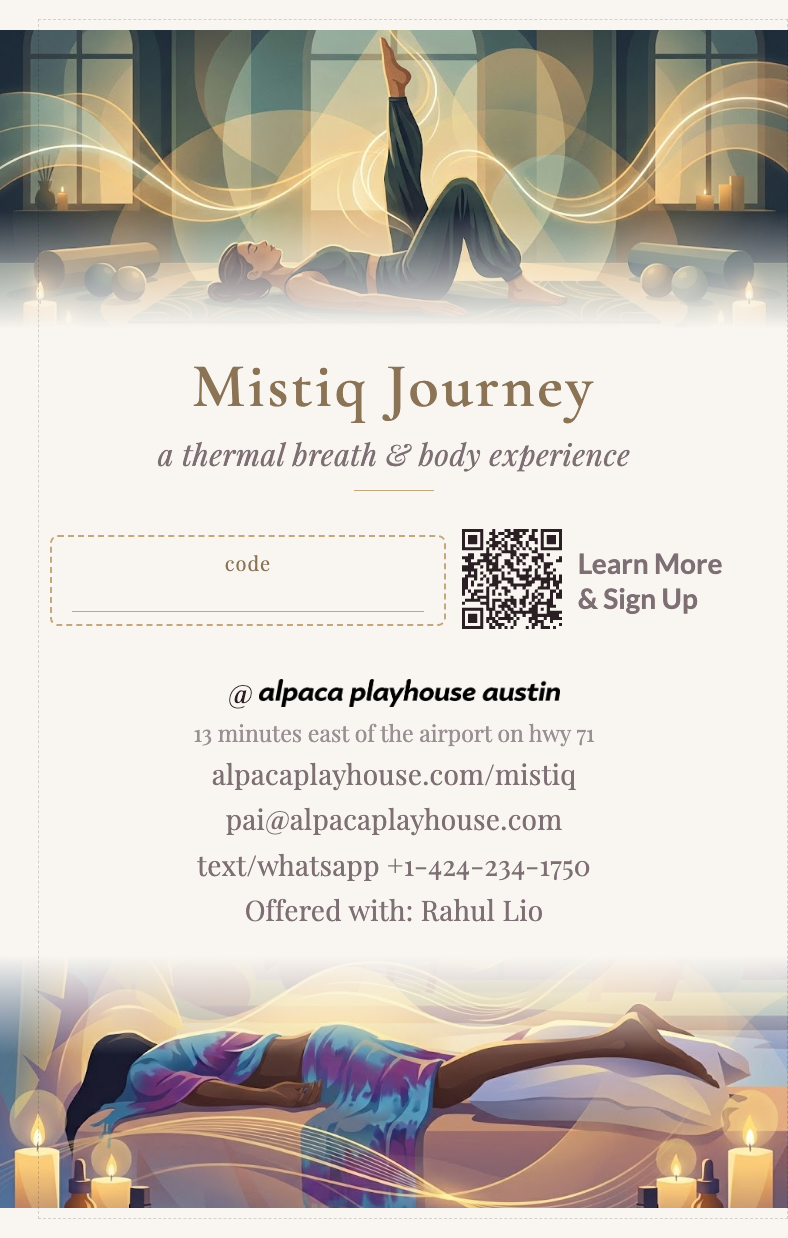
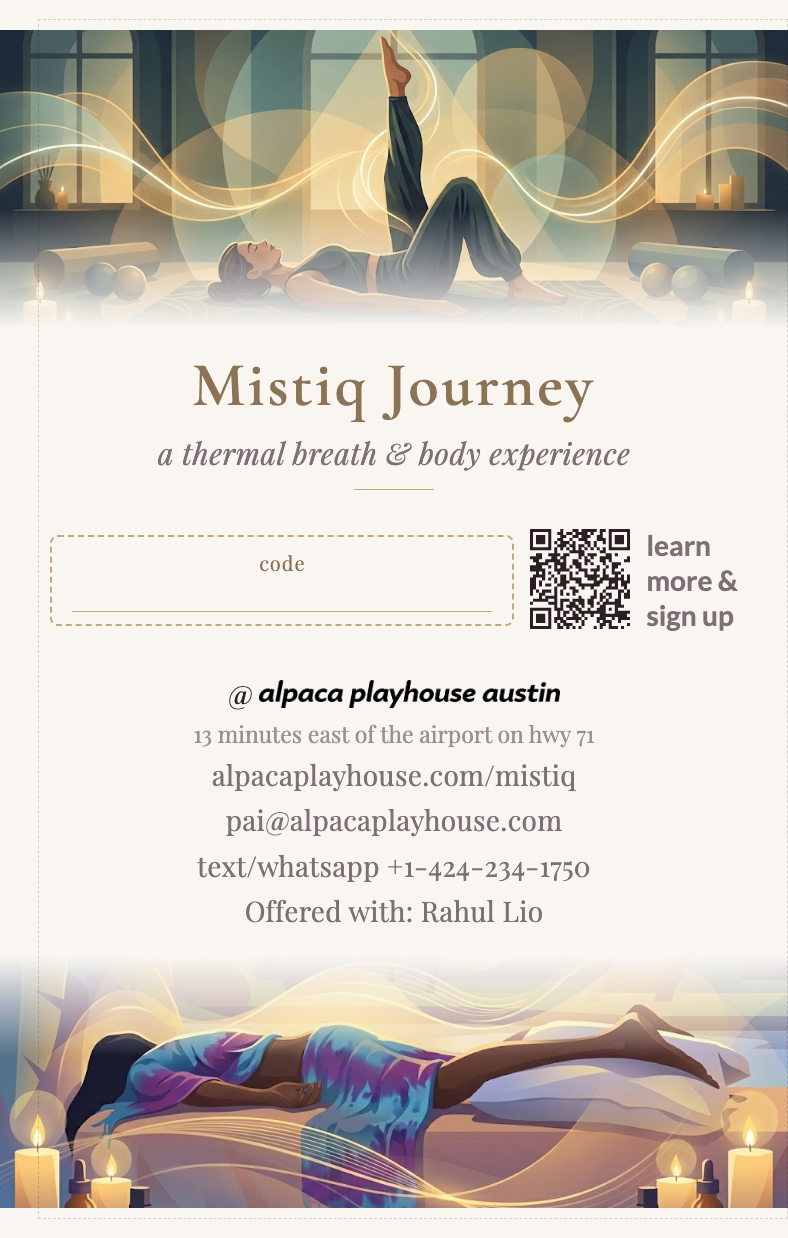
CTA text: lowercase with line breaks (learn / more & / sign up)

diff --git a/mistiq/business-card.html b/mistiq/business-card.html
@@ -468,7 +468,7 @@
               <div class="card-qr">
                 <img src="qr-mistiq.svg" alt="QR Code">
               </div>
-              <div class="card-qr-cta">Learn More &amp; Sign Up</div>
+              <div class="card-qr-cta">learn<br>more &amp;<br>sign up</div>
             </div>
 
             <div class="card-location">@ <img src="../assets/branding/wordmark-black-transparent.png" alt="alpaca playhouse austin"></div>
